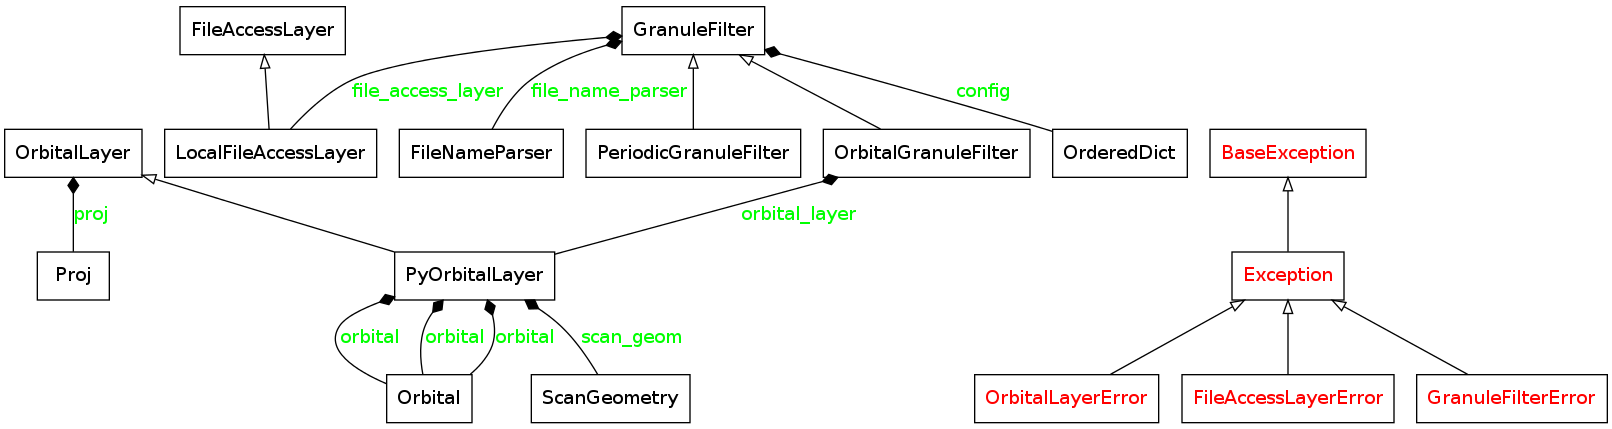
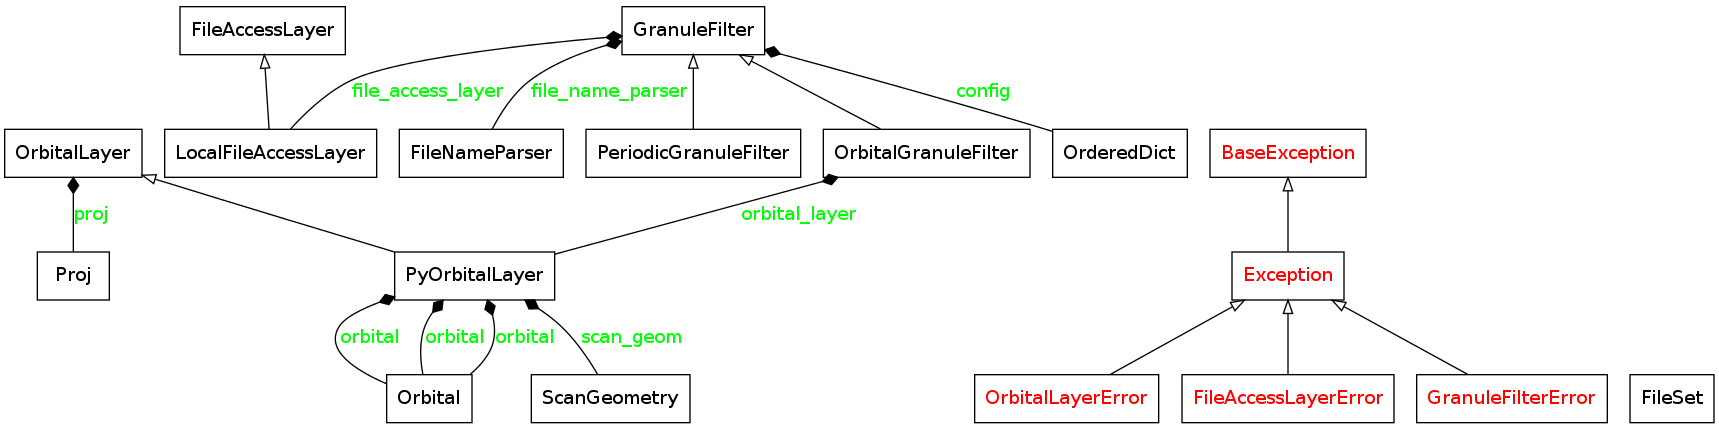
File set class, to repalce conventional lists
File set class implemented to repalce conventional lists,
separates filename from full path, and can be cross compared,
with other file sets.

diff --git a/pygranule/tests.py b/pygranule/tests.py
@@ -6,6 +6,7 @@ from .pyorbital_layer import PyOrbitalLayer
 from .periodic_granule_filter import PeriodicGranuleFilter
 from .orbital_granule_filter import OrbitalGranuleFilter
 from .local_file_access_layer import LocalFileAccessLayer
+from .file_set import FileSet
 from datetime import datetime
 import os
 import shutil
@@ -13,6 +14,52 @@ import shutil
 def make_dummy_file(path):
     open(path, 'w').close()
 
+
+class TestFileSet(unittest.TestCase):
+    def setUp(self):
+        self.files = ["blabla",
+                      "H-000-MSG3__-MSG3________-WV_073___-000009___-201401231300",
+                      "/home/msg/archive/AVHRR/avhrr_20140225_133400_noaa19.hrp.bz2",
+                      "/home/msg/archive/AVHRR/avhrr_20140225_133500_noaa19.hrp.bz2",
+                      "/home/msg/archive/AVHRR/avhrr_20140225_133600_noaa19.hrp.bz2",
+                      "/home/msg/archive/AVHRR/avhrr_20140225_133700_noaa19.hrp.bz2",
+                      "/home/msg/archive/AVHRR/avhrr_20140225_160000_noaa19.hrp.bz2",
+                      "H-000-MSG3__-MSG3________-IR_108___-000003___-201401231300"]
+        self.set = FileSet(self.files)
+        self.set2 = FileSet(self.files[0:5])
+
+    def test_remove(self):
+        # Run
+        self.set.remove("blabla")
+        self.set.remove("H-000-MSG3__-MSG3________-IR_108___-000003___-201401231300")
+        self.set.remove("/home/msg/archive/AVHRR/avhrr_20140225_160000_noaa19.hrp.bz2")
+        self.set.remove("/home/msg/archive/AVHRR/avhrr_20140225_133700_noaa19.hrp.bz2")
+
+        # Assert
+        result = self.set.paths()
+        ref = [self.files[1], self.files[2], self.files[3], self.files[4]]
+        self.assertItemsEqual(result, ref )
+
+    def test_has_file(self):
+        # Run / Assert
+        self.assertTrue( self.set.has_file("H-000-MSG3__-MSG3________-IR_108___-000003___-201401231300") )
+        self.assertFalse( self.set.has_file("H-000-MSG3__-MSG3________-IR_108___-000003") )
+        self.assertTrue( self.set.has_file("/some/other/dir/H-000-MSG3__-MSG3________-IR_108___-000003___-201401231300") )
+        self.assertTrue( self.set.has_file("/home/msg/archive/AVHRR/avhrr_20140225_133500_noaa19.hrp.bz2") )
+        self.assertTrue( self.set.has_file("avhrr_20140225_133500_noaa19.hrp.bz2") )
+
+    def test_difference(self):
+        # Run
+        diff_set1 = self.set.difference(self.set2)
+        diff_set2 = self.set2.difference(self.set)
+
+        # Assert
+        result1 = diff_set1.paths()
+        ref = self.files[5:]
+        self.assertItemsEqual( result1, ref )
+
+        result2 = diff_set2.paths()
+        self.assertItemsEqual( result2, [] )
 
 class TestLocalFileAccessLayer(unittest.TestCase):
     def setUp(self):
@@ -36,7 +83,7 @@ class TestLocalFileAccessLayer(unittest.TestCase):
 
     def test_list_source_directory(self):
         files = self.fal.list_source_directory(self.workdir)
-        self.assertItemsEqual(files,[self.workdir+'/file1',self.workdir+'/file2',self.workdir+'/file3'])
+        self.assertItemsEqual(files.paths(),[self.workdir+'/file1',self.workdir+'/file2',self.workdir+'/file3'])
 
     def test_copy_file(self):
         self.fal.copy_file(self.workdir+"/file1",self.workdir+"/testdir2/file5")
@@ -44,7 +91,7 @@ class TestLocalFileAccessLayer(unittest.TestCase):
 
     def test_remove_source_file(self):
         self.fal.remove_source_file(self.workdir+"/testdir1/filetoremove")
-        self.assertItemsEqual( os.listdir(self.workdir+"/testdir1"), ['file4'])
+        self.assertItemsEqual( os.listdir(self.workdir+"/testdir1"), ['file4'] )
 
 class TestPyOrbitalLayer(unittest.TestCase):
     def setUp(self):
@@ -103,9 +150,10 @@ class TestOrbitalGranuleFilter(unittest.TestCase):
                  "/home/msg/archive/AVHRR/avhrr_20140225_133700_noaa19.hrp.bz2",
                  "/home/msg/archive/AVHRR/avhrr_20140225_160000_noaa19.hrp.bz2",
                  "H-000-MSG3__-MSG3________-IR_108___-000003___-201401231300"]
-        result = self.af(files)
+        fileset = FileSet(files)
+        result = self.af(fileset)
         # Assert
-        self.assertItemsEqual(result,[files[2],files[3],files[4]])
+        self.assertItemsEqual(result.paths(),[files[2],files[3],files[4]])
 
 class TestPeriodicGranuleFilter(unittest.TestCase):
     def setUp(self):
@@ -155,9 +203,10 @@ class TestPeriodicGranuleFilter(unittest.TestCase):
                  "/tmp/seviri/WV_073/H-000-MSG3__-MSG3________-WV_073___-000009___-201401231300",
                  "/tmp/seviri/IR_108/H-000-MSG3__-MSG3________-{0}___-00000{1}___-%Y%m%d%H%M",
                  "/tmp/seviri/IR_108/H-000-MSG3__-MSG3________-IR_108___-000003___-201401231300"]
-        result = self.af(files)
+        fileset = FileSet(files)
+        result = self.af(fileset)
         # Assert
-        self.assertItemsEqual(result,[files[1],files[5]])
+        self.assertItemsEqual(result.paths(),[files[1],files[5]])
 
     def test_getitem(self):
         # Run
@@ -169,10 +218,17 @@ class TestPeriodicGranuleFilter(unittest.TestCase):
         # Run
         result = self.af.check_source()
         # Assert
-        self.assertItemsEqual( result,
+        self.assertItemsEqual( result.paths(),
                                ["/tmp/seviri/IR_108/H-000-MSG3__-MSG3________-IR_108___-000005___-201402202300",
                                 "/tmp/seviri/IR_108/H-000-MSG3__-MSG3________-IR_108___-000005___-201402200645"])
 
+    def test_check_source_with_call(self):
+        # Run
+        result = self.af()
+        # Assert
+        self.assertItemsEqual( result.paths(),
+                               ["/tmp/seviri/IR_108/H-000-MSG3__-MSG3________-IR_108___-000005___-201402202300",
+                                "/tmp/seviri/IR_108/H-000-MSG3__-MSG3________-IR_108___-000005___-201402200645"])
 
 class TestFileNameParser(unittest.TestCase):
     def setUp(self):
@@ -216,7 +272,6 @@ class TestFileNameParser(unittest.TestCase):
         # Assert
         self.assertTrue( result1 )
         self.assertFalse( result2 )
-
 
     def test_subset_from_filename(self):
         # Run

diff --git a/pygranule/granule_filter.py b/pygranule/granule_filter.py
@@ -4,6 +4,7 @@ from datetime import datetime, timedelta
 from .time_tools import floor_granule_datetime
 from .file_name_parser import FileNameParser
 from .local_file_access_layer import LocalFileAccessLayer
+from .file_set import FileSet
 
 class GranuleFilter(object):
     id = 0 # object id. - static class var.
@@ -72,16 +73,16 @@ class GranuleFilter(object):
         return True
 
 
-    def filter(self,filenames):
+    def filter(self,fileset):
         """
-        Filters a list of input filenames, returning
+        Filters a FileSet of input filenames, returning
         only those that pass the validator test (see validate).
         """
         f = []
-        for filename in filenames:
-            if self.validate(filename):
-                f.append(filename)
-        return f
+        for path in fileset.paths():
+            if self.validate(path):
+                f.append(path)
+        return FileSet(f)
 
     def check_sampling_from_time(self, start, period=None):
         """
@@ -93,29 +94,36 @@ class GranuleFilter(object):
     def check_source(self):
         """
         Lists source directories 'remote filesystem'.
-        Returns a list of valid filename paths not 
+        Returns a FileSet of valid filename paths not 
         already in destination folder.
         If destination folder not configured, then
         simply returns all valid files.
         """
         # expand pattern to list of source directories
         directories = self.file_name_parser.directories()
-        files = []
+
+        fileset = FileSet()
         # check files in the directories
         for d in directories:
-            files += self.file_access_layer.list_source_directory(d)
-        # filter
-        files = self.filter(files)
-        # drop files already in destination directory
+            fileset += self.file_access_layer.list_source_directory(d)
+
+        # filter fileset
+        fileset = self.filter(fileset)
+
+        # get destination granule set
         if self.config['destination'] is not None:
-            for f in files:
-                if not self.file_access_layer.check_local_file(f):
-                    files.remove(f)
+            dest_fileset = FileSet( self.file_access_layer.list_local_directory(self.config['destination']) )
 
-        return files
+            # drop files already at destination
+            fileset = fileset.difference( dest_fileset )
 
-    def __call__(self,filenames):
-        return self.filter(filenames)
+        return fileset
+
+    def __call__(self,fileset=None):
+        if fileset is None:
+            return self.check_source()
+        else:
+            return self.filter(fileset)
 
     def __getitem__(self,key):
         return self.config[key]

diff --git a/pygranule/file_set.py b/pygranule/file_set.py
@@ -1,0 +1,72 @@
+
+import os
+
+class FileSet(object):
+    """
+    A container for easy comparison of file paths,
+    and file names.  For instance for quickly comparing files
+    contained remotely and locally.
+    """
+    def __init__(self, paths=None):
+        # store
+        self.files = {}
+
+        # isolate filename
+        if paths is not None:
+            for p in paths:
+                self.files[os.path.basename(p)] = p
+
+    def __str__(self):
+        s=""
+        for f in self.files:
+            s += "   FILE:"+f + "    PATH:" + self.files[f] + "\n"
+        return s
+
+    def __iter__(self):
+        return iter(self.files)
+
+    def __iadd__(self,b):
+        self.files.update( b.files )
+        return self
+
+    def copy(self):
+        new_set = FileSet()
+        new_set.files = self.files.copy()
+        return new_set
+
+    def paths(self):
+        return self.files.values()
+
+    def add(self,path):
+        self.files[os.path.basename(path)] = path
+
+    def remove(self, path):
+        """
+        Remove a path and its filename
+        Path can be filename of full path.
+        """
+        del self.files[os.path.basename(path)]
+
+    def has_file(self, filename):
+        """
+        Checks if filename is in this set.
+        Can be a full path or just filename.
+        Does not compare the path, only the basename.
+        """
+        if os.path.basename(filename) in self.files:
+            return True
+        else:
+            return False
+
+    def difference(self, input_set):
+        """
+        Compares this set with input granule_set and returns
+        a new granule set comprising those files that are not
+        in the input set. The full path will be according to this
+        granule set. 
+        """
+        new_set = self.copy()
+        for f in input_set:
+            if f in new_set:
+                new_set.remove(f)
+        return new_set

diff --git a/pygranule/local_file_access_layer.py b/pygranule/local_file_access_layer.py
@@ -1,5 +1,6 @@
 
 from .file_access_layer import FileAccessLayer
+from .file_set import FileSet
 import os
 import shutil
 
@@ -10,14 +11,14 @@ class LocalFileAccessLayer(FileAccessLayer):
     def list_source_directory(self, directory):
         """
         Lists directory on the source file system
-        Returns a list of filenames including their full
+        Returns a FileSet of filenames including their full
         paths within the source file system.
         E.g. from .list_directory("/home/ftp/data/avhrr/") -->
-        ["/home/ftp/data/avhrr/avh_noaa19_20140225_1400.hrp.bz2",
+        FileSet(["/home/ftp/data/avhrr/avh_noaa19_20140225_1400.hrp.bz2",
          "/home/ftp/data/avhrr/avh_noaa19_20140225_1401.hrp.bz2",
-         "/home/ftp/data/avhrr/avh_noaa19_20140225_1403.hrp.bz2"]
+         "/home/ftp/data/avhrr/avh_noaa19_20140225_1403.hrp.bz2"])
         """
-        return [ directory + '/' + x for x in os.listdir(directory) if os.path.isfile(directory+'/'+x) ]
+        return FileSet([ directory + '/' + x for x in os.listdir(directory) if os.path.isfile(directory+'/'+x) ])
 
     def list_local_directory(self, directory):
         """
@@ -25,9 +26,9 @@ class LocalFileAccessLayer(FileAccessLayer):
         Returns a list of filenames including their full
         paths within the source file system.
         E.g. from .list_directory("/home/ftp/data/avhrr/") -->
-        ["/home/ftp/data/avhrr/avh_noaa19_20140225_1400.hrp.bz2",
+        FileSet(["/home/ftp/data/avhrr/avh_noaa19_20140225_1400.hrp.bz2",
          "/home/ftp/data/avhrr/avh_noaa19_20140225_1401.hrp.bz2",
-         "/home/ftp/data/avhrr/avh_noaa19_20140225_1403.hrp.bz2"]
+         "/home/ftp/data/avhrr/avh_noaa19_20140225_1403.hrp.bz2"])
         """
         return self.list_source_directory(directory)
 
